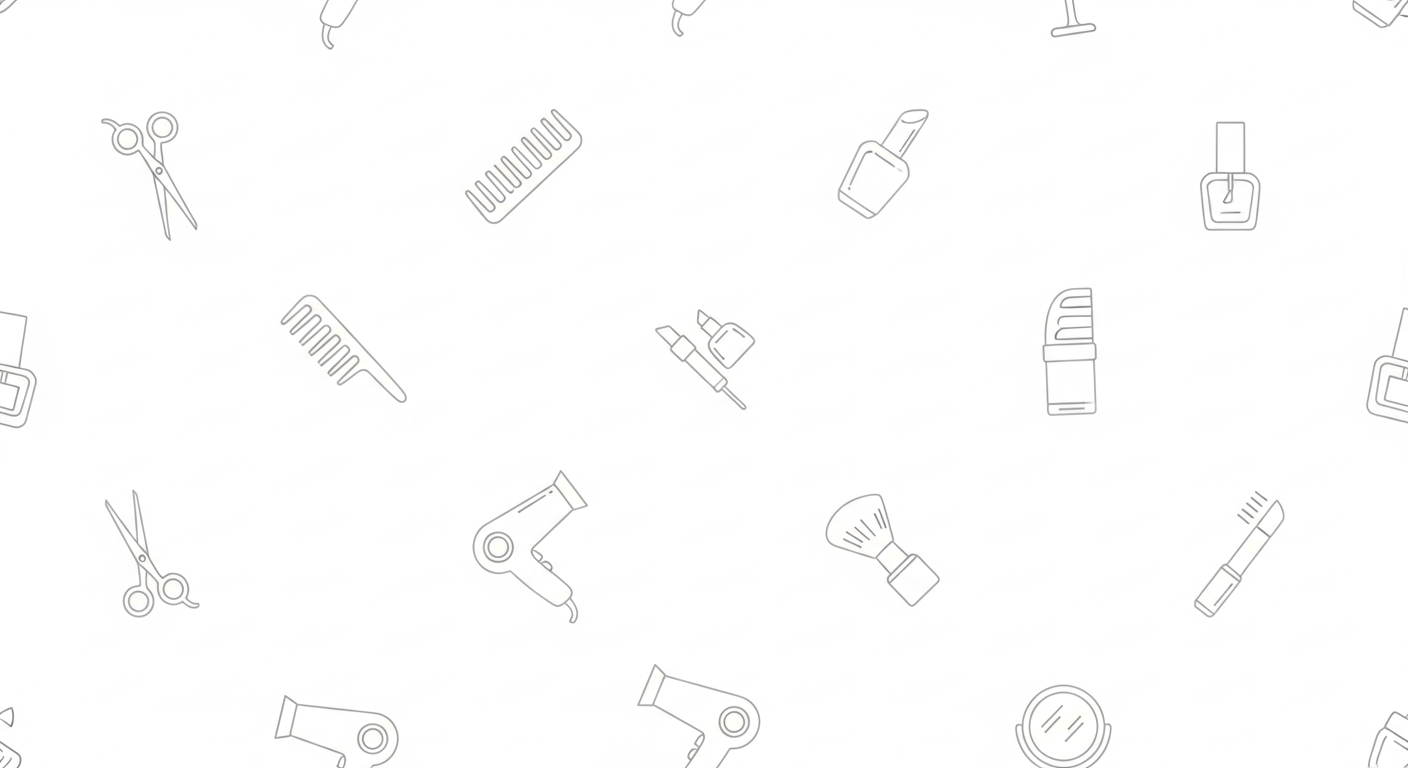
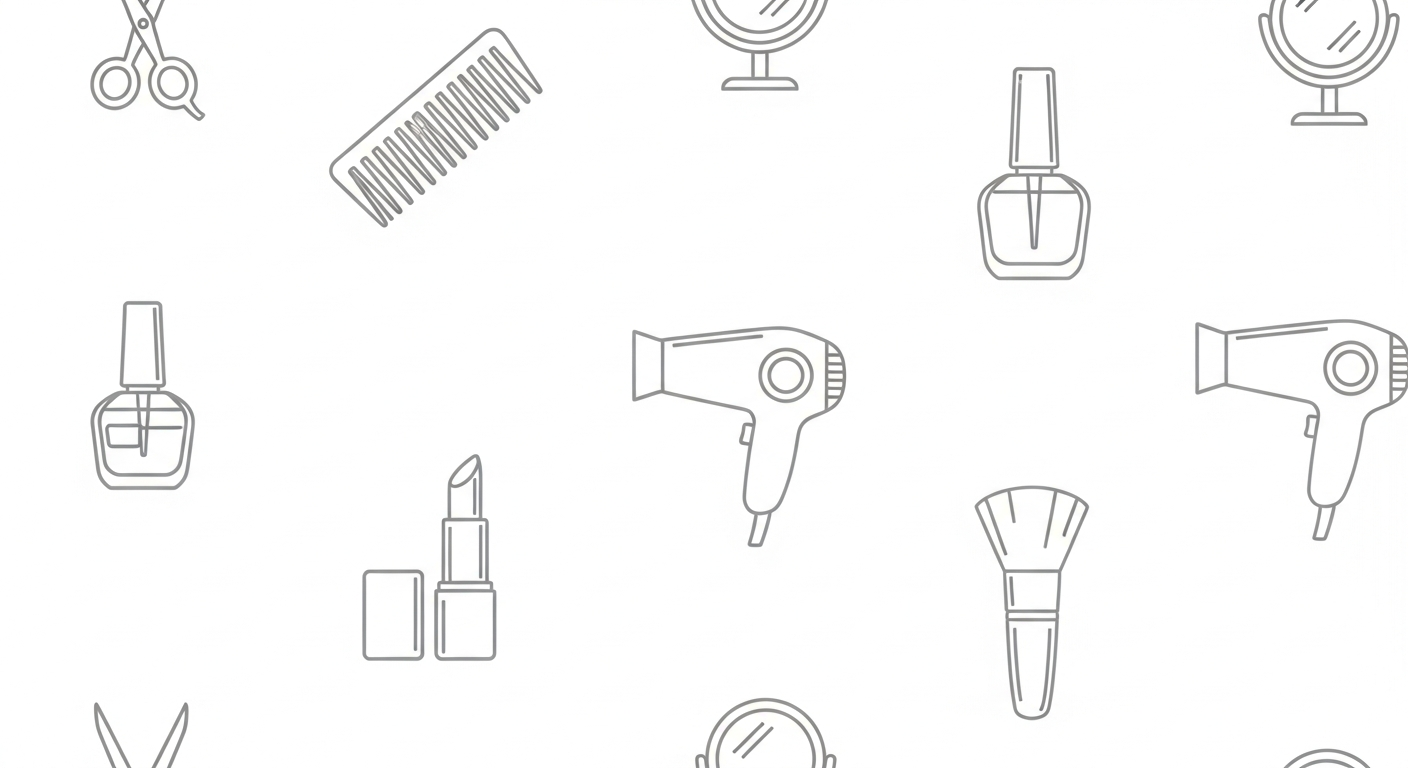
Adjust background opacity for better text visibility
Update the background overlay opacity in the HeroSection component from 30% to 10% to ensure text remains readable.

Replit-Commit-Author: Agent
Replit-Commit-Session-Id: a6544179-9ac0-4c2f-9dd4-02ea02f576bc
Replit-Commit-Checkpoint-Type: full_checkpoint
Replit-Commit-Event-Id: 8231a8e4-cb4b-4684-b463-4d49fd96db9c
Replit-Commit-Screenshot-Url: https://storage.googleapis.com/screenshot-production-us-central1/924eef5e-c595-48b0-ad47-6995c450fcf5/a6544179-9ac0-4c2f-9dd4-02ea02f576bc/1bcivSK
Replit-Helium-Checkpoint-Created: true

diff --git a/src/components/sections/HeroSection.tsx b/src/components/sections/HeroSection.tsx
@@ -22,7 +22,7 @@ const HeroSection = () => {
       <div className="absolute inset-0 -z-10">
         <img src={heroBg} alt="La Passion Beauty Salon" className="w-full h-full object-cover" />
       </div>
-      <div className="absolute inset-0 -z-10 bg-white/30" />
+      <div className="absolute inset-0 -z-10 bg-white/10" />
 
       <div className="container-custom relative z-10 pt-24 pb-16">
         <div className="grid lg:grid-cols-5 gap-10 lg:gap-14 items-center">
